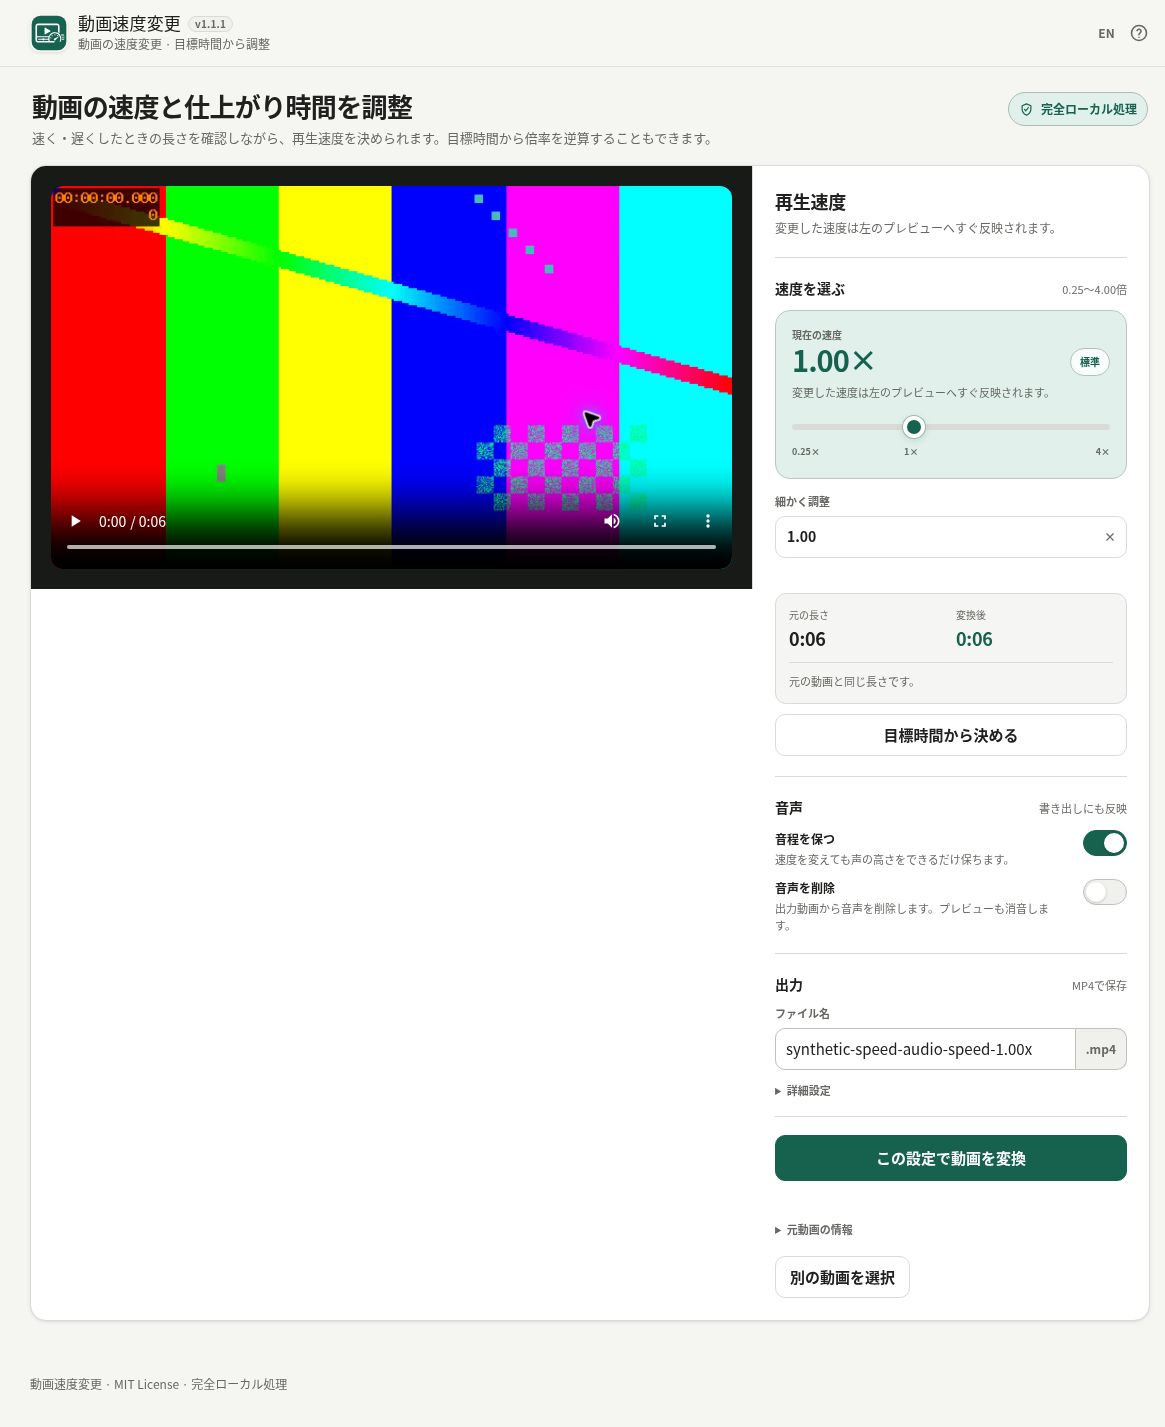
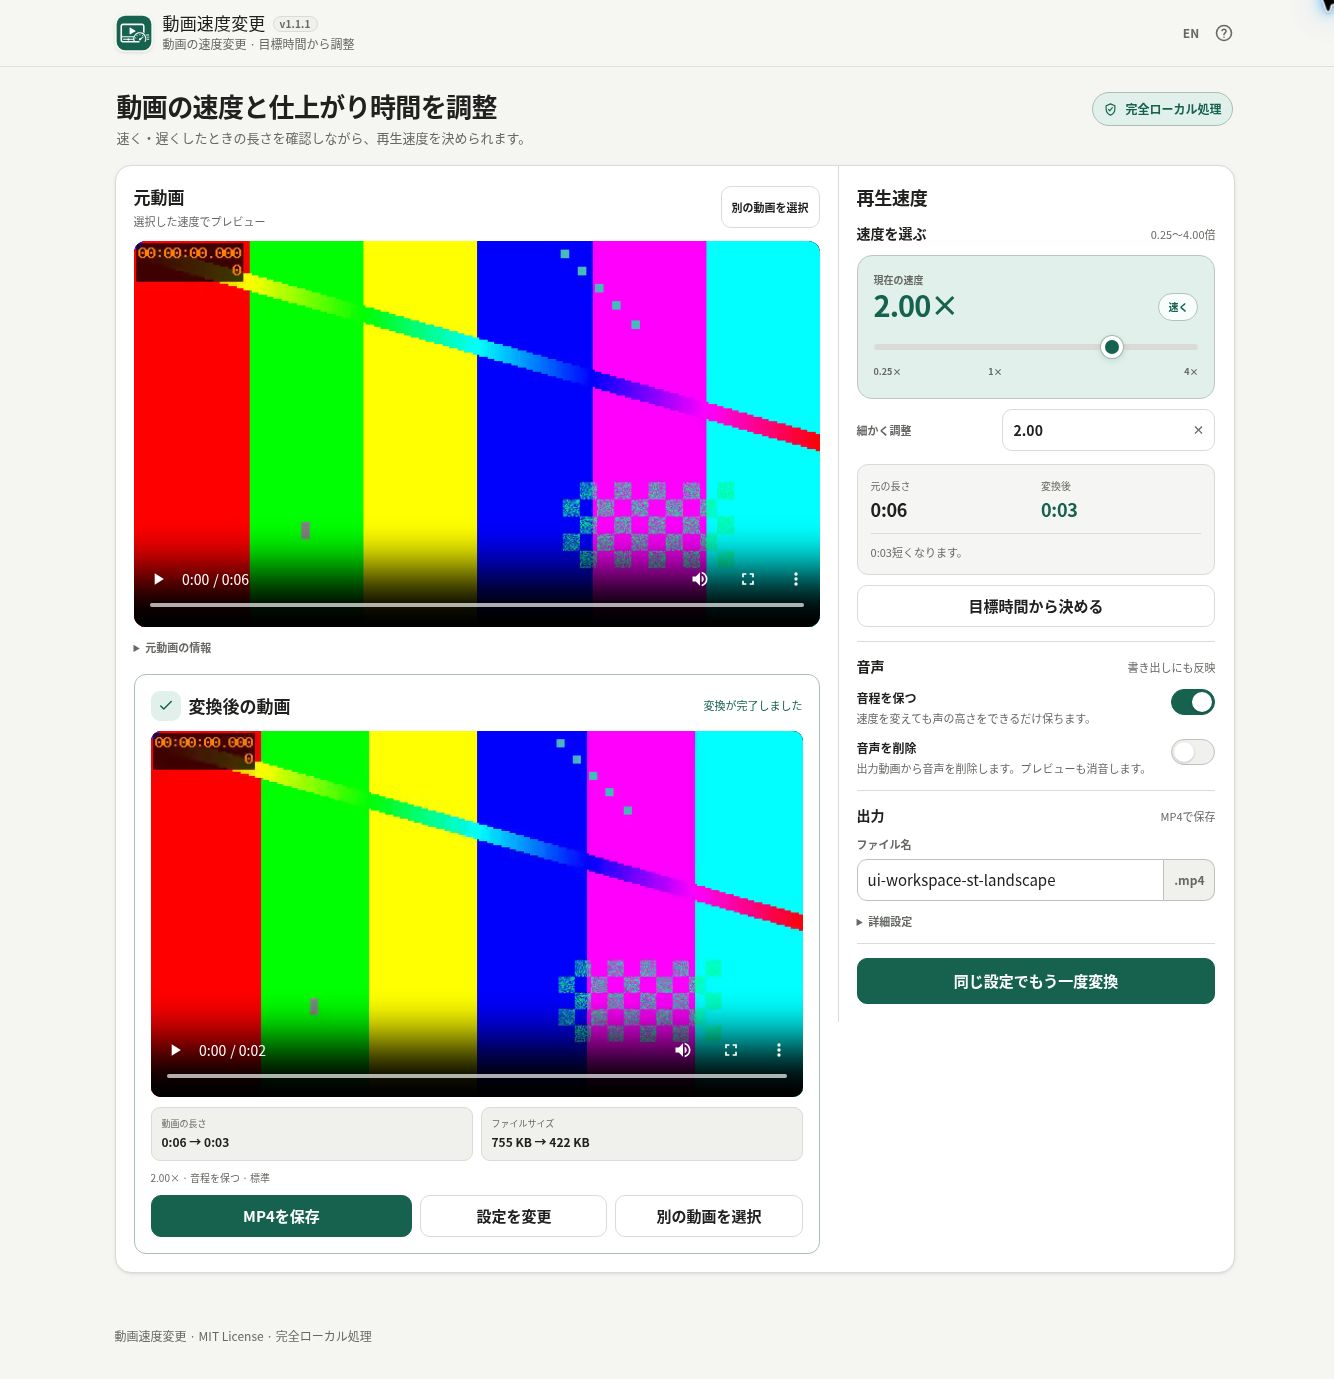
docs: record workspace preview QA and refresh screenshots

diff --git a/REGRESSION.md b/REGRESSION.md
@@ -6,7 +6,16 @@
 - Test-first: nine new layout/focus assertions failed before the implementation. The focused source UI/lifecycle suite then passed 72/72.
 - Official pinned Builder v1.10.6 ST/MT builds and `scripts/check-repository.ps1` passed on PowerShell 7.5.2 / Node 24.19.0: 124/124 tests, zero failures/skips, source/download parity and byte-exact self-extract restoration.
 - The canonical gate now tests workspace structure, labels and responsive layout contracts on all seven source/readable/root/self-extract forms. Result reveal tests cover reduced motion, stale completion frames after source replacement, and keeping focus inside an open Help dialog.
-- Rendered preview verification for this follow-up is pending; the previous rendered evidence below applies to the earlier PR10 layout only.
+- Independent static review found no blocking issue. Head `9530a5236e20446f0a48b3f5162817624e827ead` passed [Windows standalone CI](https://github.com/ttomohisa/htmlapps-video-speed-changer/actions/runs/38518769984) and [Cloudflare preview CI](https://github.com/ttomohisa/htmlapps-video-speed-changer/actions/runs/38518769834), including HTTP and MT isolation checks.
[1 lines of base64/hex data omitted]
+- Cloud Chrome on the new ST preview: landscape 640×360 source and converted preview are both naturally contained; the result is below the source and outside the settings column. At 2×, conversion and saving with an edited name produced H.264/AAC, 640×360, 2.995083 seconds; success focused `resultPreviewTitle`.
+- Japanese/English at exact 320/390 CSS px had no horizontal overflow. At 760px the order is source → settings → result and the footer is hidden; 761px switches to desktop two columns and restores the footer. These are ordinary desktop-browser responsive checks, not physical-mobile tests.
+- At 320px, real reconversion focused/revealed the result at y=70px below the 59px sticky header. Cancelling another attempt retained the previous result Blob, edited filename and enabled Save. English Help measured 284×433px inside the viewport; Tab/Enter/Escape returned focus to Help.
+- Cloud Chrome on the isolated MT preview: a genuine 90° Display Matrix source (encoded 640×360, displayed 360×640) converted at 1.5× and saved as H.264/AAC, 360×640, 4.003083 seconds.
+- Replacing the source through the unsaved-result confirmation hid the result, cleared its media URL and updated the source filename.
+- ST/MT had no app-origin console errors/warnings; unrelated browser-extension metadata errors were present. Both README screenshots were refreshed from actual JA/EN synthetic-media result sessions. Narrow full-page captures at 200% zoom exhibited a browser capture clipping defect and were excluded; exact viewport measurements and visible viewport checks remain the responsive evidence.
+- Filename editing and Save were exercised, and downloaded MP4 contents were independently checked. The browser download API exposes UUID paths rather than a suggested filename, so the browser-level saved basename was not independently observed; deterministic export-name tests remain separate evidence.
+- Limits: direct file://, physical phones, Safari/Firefox and a native DevTools network capture were not tested. The browser policy disables DevTools. Earlier evidence below is retained as history, not a substitute for this follow-up.
 
 ## 2026-10-14 v1.1.1 preview and UI refinement checks
 
